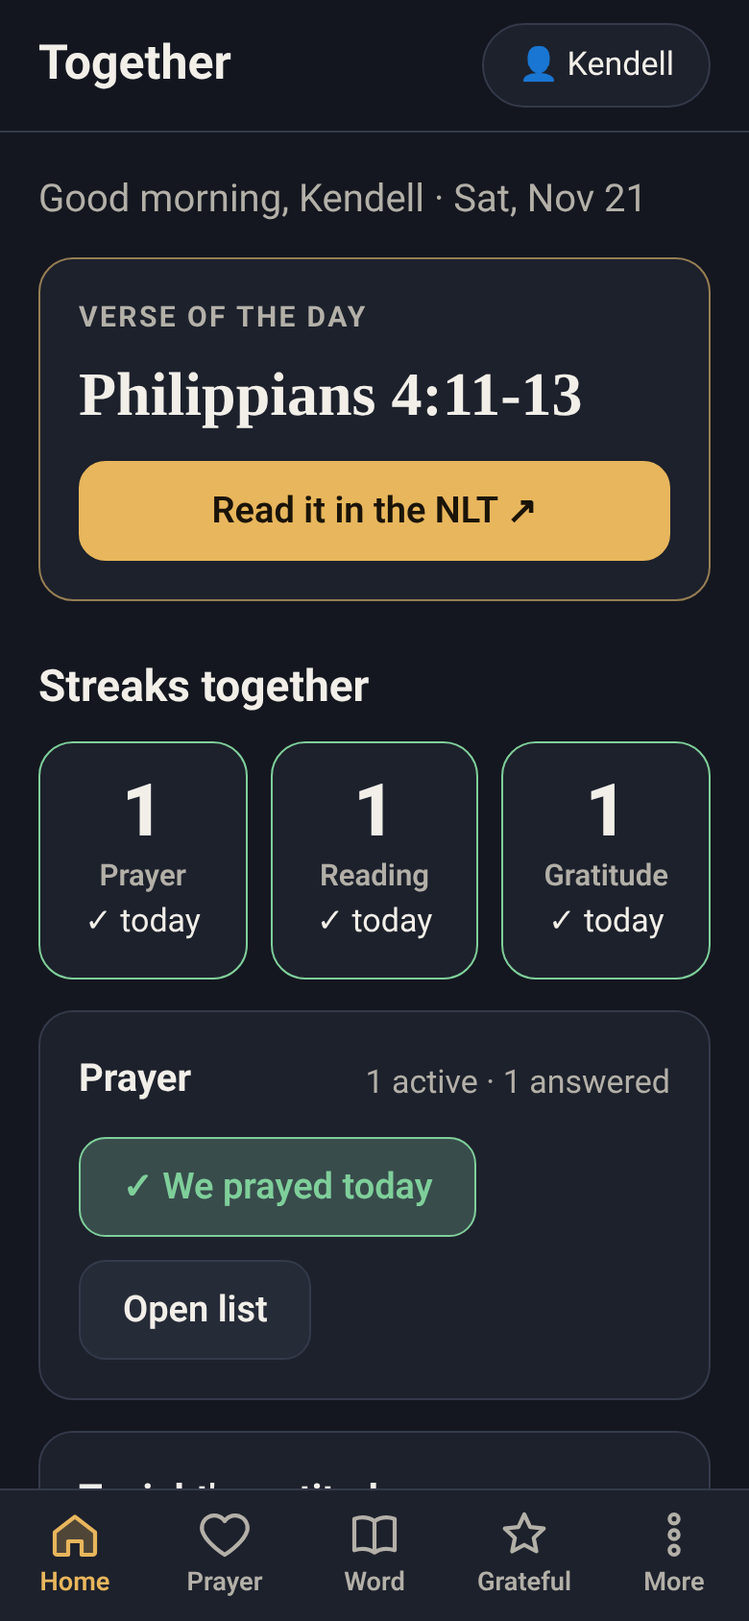
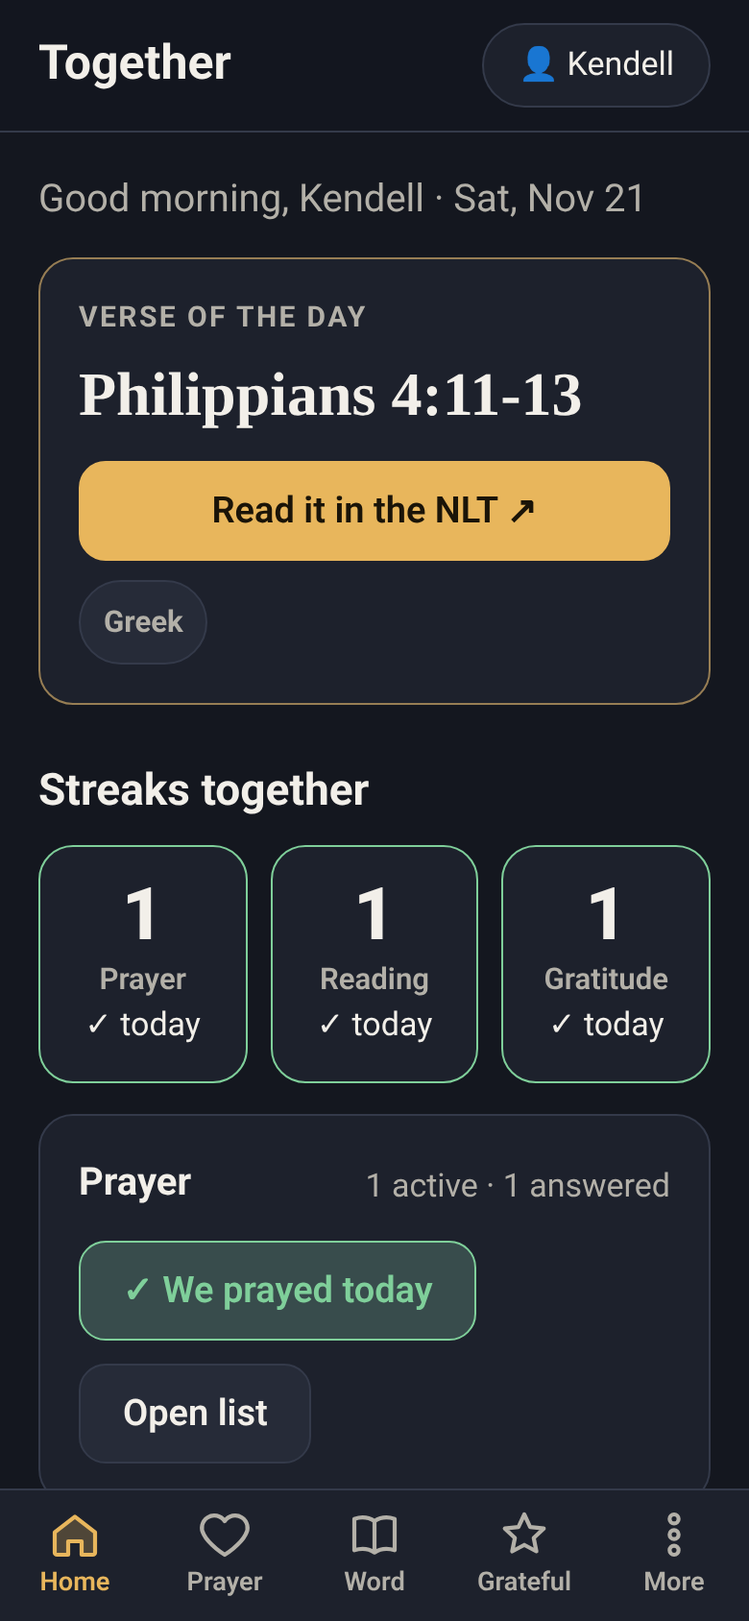
Compare with original language (Phase 1: links only)
Hebrew/Greek chip next to every scripture ref expands Bible Gateway side-by-side
(NLT;WLC / NLT;SBLGNT, split links when Hebrew numbering differs) and STEP Bible
interlinear (BSB + OSHB/SBLG). Book->OSIS/testament map and explicit WLC override
table in content.js, About-the-original-languages note on the Word tab, README,
sw v7, smoke tests (also fix two stale assertions: empty config in test, 1 Peter 3:8-9).

diff --git a/tests/smoke.test.js b/tests/smoke.test.js
@@ -3,6 +3,9 @@ const { chromium, devices } = require('playwright-core');
   const browser = await chromium.launch({ executablePath: process.env.CHROME || '/usr/bin/google-chrome', args: ['--no-sandbox'] });
   const ctx = await browser.newContext({ viewport: { width: 390, height: 844 }, deviceScaleFactor: 2, isMobile: true, hasTouch: true,
     userAgent: devices['iPhone 13'].userAgent, colorScheme: 'dark' });
+  // Keep this test local-only: serve an empty sync config (the committed one points at the live Supabase project).
+  await ctx.route('**/js/config.js', (route) => route.fulfill({ status: 200, contentType: 'application/javascript',
+    body: "window.FAITH_CONFIG = { supabaseUrl: '', supabaseAnonKey: '' };" }));
   const page = await ctx.newPage();
   const errors = [];
   page.on('console', m => { if (m.type() === 'error' || m.type()==='warning') errors.push(m.type()+': '+m.text()); });
@@ -78,6 +81,66 @@ const { chromium, devices } = require('playwright-core');
   ok(john3 === 'https://www.biblegateway.com/passage/?search=John%203&version=NLT', 'reading link: ' + john3);
   await page.evaluate(() => window.scrollTo(0,0));
   await page.evaluate(() => document.getElementById('toast').classList.remove('show')); await page.waitForTimeout(400); await page.screenshot({ path: 'screenshots/03-verse-and-reading.png' });
+  // compare with the original language (links only)
+  const BG = 'https://www.biblegateway.com/passage/?search=';
+  const STEP = 'https://www.stepbible.org/?q=version=BSB|version=';
+  const cmp = await page.evaluate(() => ['John 3:16', '1 John 4:7-8', 'Psalm 46:1-3', 'Psalm 34:8', 'Song of Songs 8:6-7', 'John 3', 'Psalm 46']
+    .map((r) => Content.compareLinks(r)));
+  const [cJ316, c1J, cP46, cP34, cSong, cJ3, cPs46] = cmp;
+  ok(cJ316.language === 'Greek' && cJ316.side === BG + 'John%203%3A16&version=NLT;SBLGNT' &&
+     cJ316.step === STEP + 'SBLG|reference=John.3.16&options=HVLUN&display=INTERLINEAR', 'compare John 3:16');
+  ok(c1J.side === BG + '1%20John%204%3A7-8&version=NLT;SBLGNT' && c1J.step === STEP + 'SBLG|reference=1John.4.7-8&options=HVLUN&display=INTERLINEAR', 'compare 1 John 4:7-8');
+  ok(cP46.language === 'Hebrew' && cP46.hebrewRef === 'Psalm 46:2-4' && cP46.side === null &&
+     cP46.split.nlt === BG + 'Psalm%2046%3A1-3&version=NLT' && cP46.split.wlc === BG + 'Psalm%2046%3A2-4&version=WLC' &&
+     cP46.step === STEP + 'OSHB|reference=Psa.46.1-3&options=HVLUN&display=INTERLINEAR', 'compare Psalm 46:1-3 (WLC 46:2-4)');
+  ok(cP34.hebrewRef === 'Psalm 34:9' && cP34.split.nlt === BG + 'Psalm%2034%3A8&version=NLT' && cP34.split.wlc === BG + 'Psalm%2034%3A9&version=WLC' &&
+     cP34.step === STEP + 'OSHB|reference=Psa.34.8&options=HVLUN&display=INTERLINEAR', 'compare Psalm 34:8 (WLC 34:9)');
+  ok(cSong.side === BG + 'Song%20of%20Songs%208%3A6-7&version=NLT;WLC' && cSong.step === STEP + 'OSHB|reference=Song.8.6-7&options=HVLUN&display=INTERLINEAR', 'compare Song of Songs 8:6-7');
+  ok(cJ3.side === BG + 'John%203&version=NLT;SBLGNT' && cJ3.step === STEP + 'SBLG|reference=John.3&options=HVLUN&display=INTERLINEAR', 'compare reading-plan John 3');
+  ok(cPs46.side === BG + 'Psalm%2046&version=NLT;WLC' && cPs46.step === STEP + 'OSHB|reference=Psa.46&options=HVLUN&display=INTERLINEAR', 'compare reading-plan Psalm 46 (whole chapter, same numbering)');
+  const wlcMap = await page.evaluate(() => ['Psalm 46:10', 'Joel 2:28', 'Malachi 4:2', 'Psalm 23:1-3'].map((r) => Content.wlcRef(r)));
+  ok(wlcMap.join('|') === 'Psalm 46:11|Joel 3:1|Malachi 3:20|Psalm 23:1-3', 'WLC numbering overrides: ' + wlcMap.join('|'));
+  const allParse = await page.evaluate(() => Content.VERSES.concat(Content.PLAN.map((d) => d.ref)).every((r) => !!Content.compareLinks(r)));
+  ok(allParse, 'every verse and plan ref gets compare links');
+  const chipJ3 = page.locator('.plan-day:has(a:text-is("Day 3: John 3")) .chip-lang');
+  const chipP46 = page.locator('.plan-day:has(a:text-is("Day 29: Psalm 46")) .chip-lang');
+  ok((await chipJ3.innerText()).startsWith('Greek') && (await chipP46.innerText()).startsWith('Hebrew'), 'chip labelled by testament (John 3 Greek, Psalm 46 Hebrew)');
+  const vodLang = await page.evaluate(() => Content.originalLanguage(FaithApp.verseOfDay(new Date())));
+  ok((await page.locator('.card.accent .chip-lang').innerText()).startsWith(vodLang), 'verse-of-the-day chip: ' + vodLang);
+  ok(await page.locator('.plan-day .chip-lang').count() === 37 && await page.locator('.plan-day').first().locator('.chip-lang').count() === 1, 'one chip per plan reference');
+  ok(await page.$$eval('.cmp-panel', (n) => n.length) === 0 && !(await page.getAttribute('details.about-orig', 'open')), 'compare panels and the about note start collapsed');
+  await chipP46.click();
+  ok(await chipP46.getAttribute('aria-expanded') === 'true', 'chip expands');
+  const p46Links = await page.$$eval('.plan-day .cmp-panel a', (as) => as.map((a) => a.href + ' ' + a.target));
+  ok(p46Links.length === 2 && p46Links[0] === BG + 'Psalm%2046&version=NLT;WLC _blank' && p46Links[1].startsWith(STEP + 'OSHB|reference=Psa.46&'), 'Psalm 46 panel links: ' + p46Links.join(' , '));
+  await chipP46.scrollIntoViewIfNeeded(); await page.evaluate(() => window.scrollBy(0, 120)); await page.waitForTimeout(200);
+  await page.screenshot({ path: 'screenshots/06-compare-plan.png' });
+  await chipP46.click();
+  ok(await page.$$eval('.cmp-panel', (n) => n.length) === 0, 'chip collapses again');
+  // split links for a verse whose Hebrew numbering differs: a phone whose date makes Psalm 46:1-3 the verse of the day
+  const ctx4 = await browser.newContext({ viewport: { width: 390, height: 844 }, deviceScaleFactor: 2, isMobile: true, hasTouch: true,
+    userAgent: devices['iPhone 13'].userAgent, colorScheme: 'dark' });
+  await ctx4.route('**/js/config.js', (route) => route.fulfill({ status: 200, contentType: 'application/javascript', body: "window.FAITH_CONFIG = { supabaseUrl: '', supabaseAnonKey: '' };" }));
+  const p4 = await ctx4.newPage(); p4.on('pageerror', e => errors.push('p4 pageerror: ' + e.message));
+  await p4.clock.setFixedTime(new Date(2026, 9, 20, 12, 0)); // Oct 20, 2026 -> VERSES[26] = Psalm 46:1-3
+  await p4.goto(B); await p4.click('#setup-form button[type=submit]'); await p4.click('.tabbar a[data-tab=read]');
+  ok(await p4.textContent('.verse-ref') === 'Psalm 46:1-3' && (await p4.locator('.card.accent .chip-lang').innerText()).startsWith('Hebrew'), 'Psalm 46:1-3 verse card has a Hebrew chip');
+  await p4.click('.card.accent .chip-lang');
+  const splitText = await p4.textContent('.card.accent .cmp-panel');
+  const splitLinks = await p4.$$eval('.card.accent .cmp-panel a', (as) => as.map((a) => a.href));
+  ok(splitText.includes('The Hebrew numbers this as Psalm 46:2-4') && splitLinks[0] === BG + 'Psalm%2046%3A1-3&version=NLT' &&
+     splitLinks[1] === BG + 'Psalm%2046%3A2-4&version=WLC' && splitLinks[2] === STEP + 'OSHB|reference=Psa.46.1-3&options=HVLUN&display=INTERLINEAR' &&
+     splitLinks.length === 3, 'split side-by-side links when numbering differs');
+  await p4.evaluate(() => document.getElementById('toast').classList.remove('show')); await p4.waitForTimeout(400);
+  await p4.screenshot({ path: 'screenshots/07-compare-verse.png' });
+  await p4.click('details.about-orig summary');
+  const about = await p4.textContent('details.about-orig');
+  ok(about.includes('The NLT is a meaning-based (thought-for-thought) translation') && about.includes('counts the title as a verse') &&
+     about.includes('narrow') && about.includes('tour pop-up'), 'about-the-original-languages note');
+  await p4.evaluate(() => document.querySelector('details.about-orig').scrollIntoView({ block: 'center' })); await p4.waitForTimeout(200);
+  await p4.screenshot({ path: 'screenshots/08-about-original.png' });
+  await ctx4.close();
+  await page.click('.tabbar a[data-tab=home]'); await page.click('.tabbar a[data-tab=read]');
   // reminders + ics
   await page.click('.tabbar a[data-tab=more]');
   await page.click('[data-action=new-reminder]');
@@ -117,7 +180,7 @@ const { chromium, devices } = require('playwright-core');
   const fired = await page.evaluate(() => Object.keys(JSON.parse(localStorage.getItem('faithapp:fired:v1'))));
   ok(!fired.includes('a@2020-01-01') && fired.some((k) => k.startsWith('b@')), 'fired-reminder log pruned after 7 days');
   const content = await page.evaluate(() => ({ v: Content.VERSES, g: Content.GRATITUDE_PROMPTS, plan: Content.PLAN.map((d) => d.ref) }));
-  ok(['Philippians 4:11-13', 'Jeremiah 29:4-14', 'Ecclesiastes 4:12', 'Ephesians 5:21-33', 'Psalm 37:3-7', 'Ruth 1:15-18'].every((r) => content.v.includes(r)) &&
+  ok(['Philippians 4:11-13', 'Jeremiah 29:4-14', '1 Peter 3:8-9', 'Ephesians 5:21-33', 'Psalm 37:3-7', 'Ruth 1:15-18'].every((r) => content.v.includes(r)) &&
      !['Philippians 4:13', 'Jeremiah 29:11', 'Matthew 18:19-20', 'Ephesians 5:25', 'Psalm 37:4-5', 'Ruth 1:16-17'].some((r) => content.v.includes(r)) && content.v.length === 70, 'verse list updated');
   ok(content.g.includes('What quality in your partner are you thankful to God for?') && content.g.includes("Is there something hard where you've seen even a glimpse of God's care?"), 'gratitude prompts updated');
   ok(content.plan.includes('Psalm 13') && content.plan.includes('Psalm 133') && content.plan.length === 37, 'reading plan has Psalm 13 and 133 (37 days)');

diff --git a/js/app.js b/js/app.js
@@ -22,6 +22,41 @@
     return '<a class="' + (cls || '') + '" href="' + esc(C.bibleGatewayUrl(ref)) + '" target="_blank" rel="noopener noreferrer">' +
       esc(label || ref) + '<span class="sr-only"> (opens Bible Gateway, NLT, in a new tab)</span></a>';
   }
+  // One small chip per scripture ref ("Hebrew" for OT, "Greek" for NT). Tapping it expands a panel (built on demand)
+  // with links to compare the NLT with the original language. Links only: no scripture text is stored or shown.
+  let compareSeq = 0;
+  function compareChip(ref) {
+    const lang = C.originalLanguage(ref);
+    if (!lang) return '';
+    const id = 'cmp-' + (++compareSeq);
+    return '<button type="button" class="chip-lang" data-action="compare" data-ref="' + esc(ref) + '" aria-expanded="false" aria-controls="' + id + '"' +
+      ' aria-label="Compare ' + esc(ref) + ' with the original ' + lang + '">' + lang + '</button>';
+  }
+  function comparePanel(ref, id) {
+    const L = C.compareLinks(ref);
+    const ext = (url, label, note) => '<a class="cmp-link" href="' + esc(url) + '" target="_blank" rel="noopener noreferrer">' +
+      '<span>' + esc(label) + '\u00a0↗</span>' + (note ? '<span class="small muted">' + esc(note) + '</span>' : '') + '</a>';
+    const side = L.side
+      ? ext(L.side, 'Side by side (Bible Gateway)', 'NLT next to the ' + (L.testament === 'OT' ? 'Hebrew (WLC)' : 'Greek (SBLGNT)'))
+      : '<p class="small muted cmp-note">The Hebrew numbers this as ' + esc(L.hebrewRef) + ', so open the two separately:</p>' +
+        ext(L.split.nlt, 'English (NLT): ' + ref, 'Bible Gateway') + ext(L.split.wlc, 'Hebrew (WLC): ' + L.hebrewRef, 'Bible Gateway');
+    return '<div class="cmp-panel" id="' + id + '" role="group" aria-label="Compare ' + esc(ref) + ' with the original ' + L.language + '">' +
+      side + ext(L.step, 'Word by word (STEP Bible)', 'English side is the BSB, not the NLT') + '</div>';
+  }
+  function toggleCompare(btn) {
+    const id = btn.getAttribute('aria-controls');
+    const open = btn.getAttribute('aria-expanded') === 'true';
+    const existing = document.getElementById(id);
+    if (open) { if (existing) existing.remove(); btn.setAttribute('aria-expanded', 'false'); return; }
+    const host = btn.closest('.cmp-host') || btn.parentNode;
+    host.insertAdjacentHTML('beforeend', comparePanel(btn.dataset.ref, id));
+    btn.setAttribute('aria-expanded', 'true');
+  }
+  const ORIGINAL_NOTE = 'The NLT is a meaning-based (thought-for-thought) translation: it translates literally where that\'s clear and ' +
+    'gives the sense of a phrase where a literal rendering would confuse. The Hebrew and Greek are the texts translators work from. ' +
+    'A word-by-word line isn\'t a better translation, because languages don\'t match word for word. Be cautious with word studies: ' +
+    'a word\'s root or its other uses don\'t override what it means in this sentence. Hebrew reads right to left, and some Psalms ' +
+    'are numbered one or two verses differently because the Hebrew counts the title as a verse.';
   function fmtDate(key) {
     if (!key) return '';
     const d = new Date(key.length === 10 ? key + 'T12:00:00' : key);
@@ -152,17 +187,17 @@
       '<p class="muted">' + greet + ', ' + esc(me()) + ' · ' + esc(fmtDate(todayKey)) + '</p>' +
       '<section class="card accent" aria-labelledby="vod-h"><p class="eyebrow" id="vod-h">Verse of the day</p>' +
         '<p class="verse-ref">' + esc(ref) + '</p>' +
-        bgLink(ref, 'Read it in the NLT ↗', 'btn primary block') + '</section>' +
+        bgLink(ref, 'Read it in the NLT ↗', 'btn primary block') + '<div class="cmp-host">' + compareChip(ref) + '</div></section>' +
       '<h2>Streaks together</h2><div class="streaks">' + streakTile('prayer', 'Prayer') + streakTile('reading', 'Reading') + streakTile('gratitude', 'Gratitude') + '</div>' +
       '<section class="card" aria-labelledby="pr-h"><div class="row spread"><h3 id="pr-h">Prayer</h3><span class="muted small">' + active + ' active · ' + answered + ' answered</span></div>' +
         '<div class="row" style="margin-top:.5rem"><button type="button" class="btn ' + (S.didToday('prayer') ? 'done' : 'good') + '" data-action="prayed-today">' +
         (S.didToday('prayer') ? '✓ We prayed today' : 'We prayed today') + '</button><a class="btn" href="#pray">Open list</a></div></section>' +
       '<section class="card" aria-labelledby="gr-h"><h3 id="gr-h">Tonight\'s gratitude</h3><p class="prompt">' + esc(promptOfDay()) + '</p>' +
         '<p>' + gStatus + '</p><a class="btn block" href="#thanks">Write tonight\'s entry</a></section>' +
-      '<section class="card" aria-labelledby="rd-h"><h3 id="rd-h">Today\'s reading</h3>' +
+      '<section class="card cmp-host" aria-labelledby="rd-h"><h3 id="rd-h">Today\'s reading</h3>' +
         (next ? '<p class="muted small">' + esc(next.section) + ' · Day ' + (C.PLAN.indexOf(next) + 1) + ' of ' + C.PLAN.length + '</p>' +
           '<div class="row">' + bgLink(next.ref, next.title + ' ↗', 'btn primary') +
-          '<button type="button" class="btn" data-action="toggle-reading" data-id="' + next.id + '">Mark read</button></div>'
+          '<button type="button" class="btn" data-action="toggle-reading" data-id="' + next.id + '">Mark read</button>' + compareChip(next.ref) + '</div>'
           : '<p>🎉 You finished the plan together!</p>') + '</section>' +
       (rems.length ? '<section class="card"><h3>Reminders</h3><ul class="list">' + rems.map((r) =>
         '<li class="small">' + esc(fmtTime(r.time)) + ' — ' + esc(r.title) + ' <span class="muted">(' + esc(r.forWhom) + ')</span></li>').join('') +
@@ -224,13 +259,17 @@
       if (d.section !== section) { section = d.section; head = '<h3 style="margin-top:1rem">' + esc(section) + '</h3>'; }
       return head + '<div class="plan-day"><button type="button" class="check" data-action="toggle-reading" data-id="' + d.id + '" aria-pressed="' + isDone +
         '" aria-label="Day ' + (i + 1) + ', ' + esc(d.title) + (isDone ? ', read' : ', not read') + '">' + (isDone ? '✓' : '') + '</button>' +
-        '<div class="grow">' + bgLink(d.ref, 'Day ' + (i + 1) + ': ' + d.title) +
+        '<div class="grow cmp-host"><div class="ref-line">' + bgLink(d.ref, 'Day ' + (i + 1) + ': ' + d.title) + compareChip(d.ref) + '</div>' +
         (isDone ? '<div class="small muted">Read by ' + esc(st.by) + ' · ' + esc(fmtDate(st.at)) + '</div>' : '') + '</div></div>';
     }).join('');
     return '' +
       '<section class="card accent"><p class="eyebrow">Verse of the day</p><p class="verse-ref">' + esc(ref) + '</p>' +
-        bgLink(ref, 'Read it in the NLT ↗', 'btn primary block') +
+        bgLink(ref, 'Read it in the NLT ↗', 'btn primary block') + '<div class="cmp-host">' + compareChip(ref) + '</div>' +
         '<p class="hint">Both of your phones show the same verse each day. Text opens on Bible Gateway (NLT).</p></section>' +
+      '<details class="about-orig"><summary><span aria-hidden="true">ⓘ</span> About the original languages</summary>' +
+        '<p class="small">' + esc(ORIGINAL_NOTE) + '</p>' +
+        '<p class="small muted">Tap Hebrew or Greek next to any reference to compare. On a phone, the side-by-side page may show narrow ' +
+        'columns, and STEP Bible shows a tour pop-up on your first visit.</p></details>' +
       '<h2>Reading plan: John + Psalms</h2>' +
       '<p class="muted small">Shared progress for both of you: ' + done + ' of ' + C.PLAN.length + ' days · ' + pct + '%</p>' +
       '<p class="hint">A check-off by either of you counts for you both.</p>' +
@@ -584,6 +623,7 @@
     const act = el.dataset.action;
     switch (act) {
       case 'mic': startMic(el); break;
+      case 'compare': toggleCompare(el); break;
       case 'switch-user': {
         const p = partners(); const next = S.device().me === 0 ? 1 : 0;
         S.setMe(next); toast('Now using as ' + (p[next] || 'Partner')); render(); break;

diff --git a/js/content.js b/js/content.js
@@ -67,5 +67,86 @@
     return 'https://www.biblegateway.com/passage/?search=' + encodeURIComponent(ref) + '&version=NLT';
   }
 
-  window.Content = { VERSES: VERSES, GRATITUDE_PROMPTS: GRATITUDE_PROMPTS, PLAN: PLAN, bibleGatewayUrl: bibleGatewayUrl };
+  /* ---------- Compare with the original language (links only, no text stored) ---------- */
+  // Book name (as written in our refs) -> [OSIS code used by STEP Bible, testament].
+  const BOOKS = {};
+  [['Genesis', 'Gen'], ['Exodus', 'Exod'], ['Leviticus', 'Lev'], ['Numbers', 'Num'], ['Deuteronomy', 'Deut'],
+   ['Joshua', 'Josh'], ['Judges', 'Judg'], ['Ruth', 'Ruth'], ['1 Samuel', '1Sam'], ['2 Samuel', '2Sam'],
+   ['1 Kings', '1Kgs'], ['2 Kings', '2Kgs'], ['1 Chronicles', '1Chr'], ['2 Chronicles', '2Chr'], ['Ezra', 'Ezra'],
+   ['Nehemiah', 'Neh'], ['Esther', 'Esth'], ['Job', 'Job'], ['Psalm', 'Psa'], ['Psalms', 'Psa'], ['Proverbs', 'Prov'],
+   ['Ecclesiastes', 'Eccl'], ['Song of Songs', 'Song'], ['Song of Solomon', 'Song'], ['Isaiah', 'Isa'], ['Jeremiah', 'Jer'],
+   ['Lamentations', 'Lam'], ['Ezekiel', 'Ezek'], ['Daniel', 'Dan'], ['Hosea', 'Hos'], ['Joel', 'Joel'], ['Amos', 'Amos'],
+   ['Obadiah', 'Obad'], ['Jonah', 'Jonah'], ['Micah', 'Mic'], ['Nahum', 'Nah'], ['Habakkuk', 'Hab'], ['Zephaniah', 'Zeph'],
+   ['Haggai', 'Hag'], ['Zechariah', 'Zech'], ['Malachi', 'Mal']
+  ].forEach(function (b) { BOOKS[b[0]] = [b[1], 'OT']; });
+  [['Matthew', 'Matt'], ['Mark', 'Mark'], ['Luke', 'Luke'], ['John', 'John'], ['Acts', 'Acts'], ['Romans', 'Rom'],
+   ['1 Corinthians', '1Cor'], ['2 Corinthians', '2Cor'], ['Galatians', 'Gal'], ['Ephesians', 'Eph'], ['Philippians', 'Phil'],
+   ['Colossians', 'Col'], ['1 Thessalonians', '1Thess'], ['2 Thessalonians', '2Thess'], ['1 Timothy', '1Tim'],
+   ['2 Timothy', '2Tim'], ['Titus', 'Titus'], ['Philemon', 'Phlm'], ['Hebrews', 'Heb'], ['James', 'Jas'], ['1 Peter', '1Pet'],
+   ['2 Peter', '2Pet'], ['1 John', '1John'], ['2 John', '2John'], ['3 John', '3John'], ['Jude', 'Jude'], ['Revelation', 'Rev']
+  ].forEach(function (b) { BOOKS[b[0]] = [b[1], 'NT']; });
+
+  // English (NLT) ref -> Hebrew (WLC) ref, where the Hebrew numbers verses differently
+  // (psalm titles counted as verse 1; different chapter breaks in Joel and Malachi). Verified by the Fact-Checker.
+  // General rule for anything not listed: same numbering. Whole psalm chapters always match (only the verse numbers
+  // inside shift), so the reading-plan psalms (8, 19, 34, 46, 51, 63 have separate title verses) need no entry.
+  // Audit of every OT ref in VERSES: only Psalm 34:8, 46:1-3 and 46:10 differ. Psalms 23, 37, 121, 133, 139 and 143
+  // also have titles, but in Hebrew those short titles sit inside verse 1, so numbering matches (Fact-Checker: "every
+  // other OT ref lines up"). TODO: if you add a new psalm verse, check its Hebrew numbering before relying on the rule.
+  // TODO: whole chapters Joel 2 (WLC 2:1-27 + 3:1-5), Joel 3 and Malachi 4 also shift; add them here if ever used.
+  const WLC_OVERRIDES = {
+    'Psalm 34:8': 'Psalm 34:9',
+    'Psalm 46:1-3': 'Psalm 46:2-4',
+    'Psalm 46:10': 'Psalm 46:11',
+    'Joel 2:28': 'Joel 3:1',
+    'Joel 2:28-32': 'Joel 3:1-5',
+    'Malachi 4:2': 'Malachi 3:20',
+    'Malachi 4:1-6': 'Malachi 3:19-24'
+  };
+
+  // "Song of Songs 8:6-7" -> { book, osis, testament, ch, v1, v2 }; null if it can't be parsed.
+  function parseRef(ref) {
+    const m = /^(.+?)\s+(\d+)(?::(\d+)(?:-(\d+))?)?$/.exec(String(ref).trim());
+    if (!m || !BOOKS[m[1]]) return null;
+    return { book: m[1], osis: BOOKS[m[1]][0], testament: BOOKS[m[1]][1], ch: m[2], v1: m[3] || null, v2: m[4] || null };
+  }
+  function testament(ref) { const p = parseRef(ref); return p ? p.testament : null; }
+  function originalLanguage(ref) { const t = testament(ref); return t === 'OT' ? 'Hebrew' : t === 'NT' ? 'Greek' : null; }
+  function wlcRef(ref) { return WLC_OVERRIDES[ref] || ref; }
+  function osisRef(ref) {
+    const p = parseRef(ref);
+    if (!p) return null;
+    return p.osis + '.' + p.ch + (p.v1 ? '.' + p.v1 + (p.v2 ? '-' + p.v2 : '') : '');
+  }
+  function bgParallelUrl(ref, versions) {
+    return 'https://www.biblegateway.com/passage/?search=' + encodeURIComponent(ref) + '&version=' + versions;
+  }
+  // Links for the "Hebrew"/"Greek" chip. Returns null for refs we can't parse.
+  // side: one Bible Gateway parallel link (NLT + WLC/SBLGNT) when numbering matches. When the Hebrew numbering differs,
+  //   one search can't line both up, so `side` is null and `split` gives two links: NLT at the English ref and
+  //   WLC at the Hebrew ref.
+  // step: STEP Bible interlinear (English side is the BSB). Uses the English ref; STEP maps Hebrew numbering itself.
+  function compareLinks(ref) {
+    const p = parseRef(ref);
+    if (!p) return null;
+    const ot = p.testament === 'OT';
+    const heb = ot ? wlcRef(ref) : ref;
+    const differs = heb !== ref;
+    return {
+      ref: ref,
+      testament: p.testament,
+      language: ot ? 'Hebrew' : 'Greek',
+      hebrewRef: ot ? heb : null,
+      side: differs ? null : bgParallelUrl(ref, ot ? 'NLT;WLC' : 'NLT;SBLGNT'),
+      split: differs ? { nlt: bgParallelUrl(ref, 'NLT'), wlc: bgParallelUrl(heb, 'WLC') } : null,
+      step: 'https://www.stepbible.org/?q=version=BSB|version=' + (ot ? 'OSHB' : 'SBLG') + '|reference=' + osisRef(ref) +
+        '&options=HVLUN&display=INTERLINEAR'
+    };
+  }
+
+  window.Content = {
+    VERSES: VERSES, GRATITUDE_PROMPTS: GRATITUDE_PROMPTS, PLAN: PLAN, bibleGatewayUrl: bibleGatewayUrl,
+    BOOKS: BOOKS, WLC_OVERRIDES: WLC_OVERRIDES, parseRef: parseRef, testament: testament, originalLanguage: originalLanguage,
+    wlcRef: wlcRef, osisRef: osisRef, compareLinks: compareLinks
+  };
 })();

diff --git a/styles.css b/styles.css
@@ -189,3 +189,25 @@ dialog h2 { margin-top: 0; }
 .hidden { display: none !important; }
 @media (prefers-reduced-motion: reduce) { * { animation: none !important; transition: none !important; } }
 .sr-only { position: absolute; width: 1px; height: 1px; overflow: hidden; clip: rect(0 0 0 0); white-space: nowrap; }
+
+/* Compare with the original language (Hebrew/Greek chip + inline links panel) */
+.ref-line { display: flex; align-items: center; column-gap: .35rem; flex-wrap: wrap; }
+.chip-lang {
+  min-height: 44px; min-width: 44px; padding: .2rem .6rem; border-radius: 999px; border: 1px solid var(--border);
+  background: var(--surface-2); color: var(--muted); font: inherit; font-size: .78rem; font-weight: 700; cursor: pointer;
+}
+.cmp-host > .chip-lang { margin-top: .5rem; }
+.chip-lang[aria-expanded="true"] { color: var(--accent); border-color: color-mix(in srgb, var(--accent) 60%, var(--border)); }
+.chip-lang[aria-expanded="true"] { background: color-mix(in srgb, var(--accent) 16%, var(--surface-2)); }
+.cmp-panel { display: grid; gap: .4rem; margin: .5rem 0 .3rem; padding: .5rem; background: var(--surface-2); border-radius: 14px; }
+.cmp-panel .cmp-link {
+  display: flex; flex-direction: column; justify-content: center; min-height: var(--tap); padding: .45rem .8rem; border-radius: 12px;
+  background: var(--surface); border: 1px solid var(--border); text-decoration: none; font-weight: 700; line-height: 1.3;
+}
+.plan-day .cmp-panel a { line-height: 1.3; min-height: var(--tap); }
+.cmp-panel .cmp-link .small { font-weight: 500; }
+.cmp-note { margin: .1rem .2rem; }
+.about-orig { margin: .2rem 0 .8rem; }
+.about-orig summary { min-height: 44px; display: flex; align-items: center; gap: .4rem; cursor: pointer; color: var(--muted); font-weight: 600; font-size: .9rem; }
+.about-orig[open] { background: var(--surface); border: 1px solid var(--border); border-radius: var(--radius); padding: 0 1rem .6rem; }
+.plan-day:has(.chip-lang) { gap: .55rem; }

diff --git a/sw.js b/sw.js
@@ -1,5 +1,5 @@
 /* Service worker: caches the app shell so it opens offline. Bump VERSION after editing any file. */
-const VERSION = 'faith-app-v6';
+const VERSION = 'faith-app-v7';
 const SHELL = [
   './', './index.html', './styles.css', './manifest.webmanifest',
   './js/config.js', './js/content.js', './js/store.js', './js/app.js',

diff --git a/README.md b/README.md
@@ -8,11 +8,39 @@ Scripture: the app stores **references only** (for example "Philippians 4:6-7").
 Bible Gateway in the NLT (`https://www.biblegateway.com/passage/?search=<ref>&version=NLT`).
 No NLT text is included, because the NLT is copyrighted.
 
+## Compare with the original language (links only)
+Every scripture reference (verse of the day, the reading-plan days, today's reading on Home) has one small chip,
+**Hebrew** for Old Testament refs or **Greek** for New Testament refs. Tapping it expands two links:
+
+1. **Side by side (Bible Gateway):** the NLT next to the original-language text.
+   - NT: `https://www.biblegateway.com/passage/?search=<ref>&version=NLT;SBLGNT` (SBL Greek New Testament)
+   - OT: `https://www.biblegateway.com/passage/?search=<ref>&version=NLT;WLC` (Westminster Leningrad Codex)
+   - Bible Gateway's parallel view lines verses up **by number**, and the Hebrew numbers some verses differently
+     (it counts most psalm titles as verse 1; Joel and Malachi have different chapter breaks). When a ref's Hebrew
+     numbering differs, one search can't line both up, so the app shows two links instead: the NLT at the English ref
+     and the WLC at the Hebrew ref (for example Psalm 46:1-3 → WLC Psalm 46:2-4). Whole chapters (the reading-plan
+     psalms) keep a single side-by-side link, because the chapter numbers match.
+     The mapping is the explicit `WLC_OVERRIDES` table in `js/content.js`; anything not listed uses the same numbering.
+2. **Word by word (STEP Bible):** an interlinear that lines up each Hebrew/Greek word with English.
+   `https://www.stepbible.org/?q=version=BSB|version=SBLG|reference=<OSIS ref>&options=HVLUN&display=INTERLINEAR`
+   for NT, `version=BSB|version=OSHB` for OT, with OSIS refs like `John.3.16`, `1John.4.7-8`, `Psa.46`.
+   STEP uses the English numbering and maps the Hebrew itself. STEP doesn't have the NLT, so its English side is the
+   **BSB** (Berean Standard Bible), not the NLT.
+
+The Word tab has a collapsed **ⓘ About the original languages** note explaining what the comparison is (and isn't).
+On a phone, Bible Gateway's side-by-side page can show narrow columns, and STEP shows a tour pop-up on the first visit.
+
+**Licensing:** this feature is links only. The app stores and shows no Hebrew, Greek, NLT or BSB text, so no license
+or credit line is needed. Bible Gateway's terms allow deep links but forbid copying or caching their pages, so the app
+uses plain-text labels (no logos) and never fetches their content. If original-language text is ever embedded
+(a possible "Phase 2"), use SBLGNT (CC BY 4.0) and the WLC (public domain, via the Open Scriptures Hebrew Bible)
+with their credit lines; don't embed THGNT (all rights reserved).
+
 ## Files
 ```
 index.html             app shell + bottom tabs
 styles.css             mobile-first styles (20px base, dark default, light when the phone is in light mode)
-js/content.js          verse references (70), gratitude prompts (30), reading plan (37 days)
+js/content.js          verse references (70), gratitude prompts (30), reading plan (37 days), original-language links
 js/config.js           live sync settings (Supabase URL + anon key); empty = local-only
 js/store.js            data layer: localStorage, export/import, merge, live sync engine
 js/app.js              views, routing, voice input, reminders, sync UI
